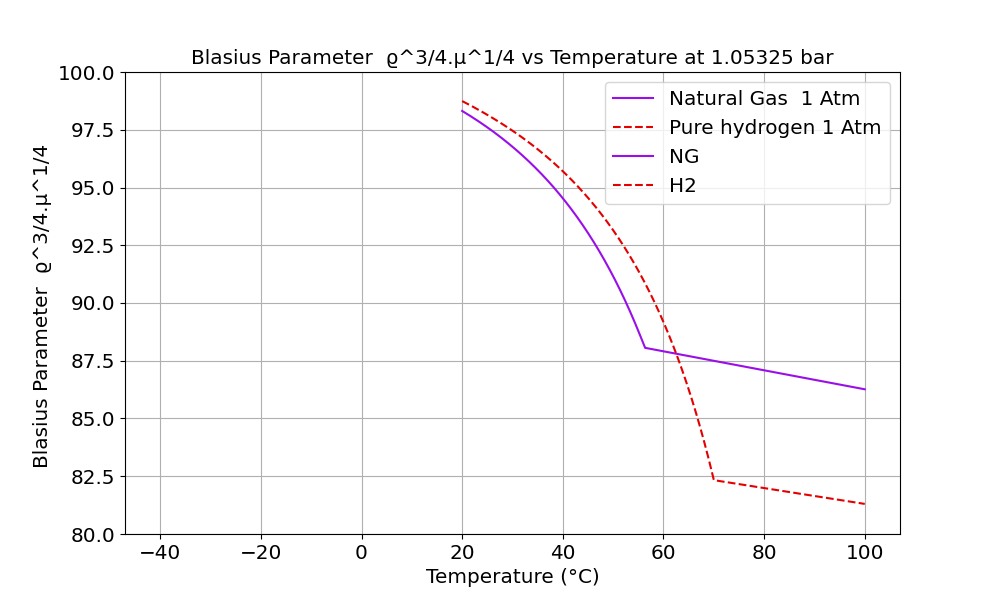
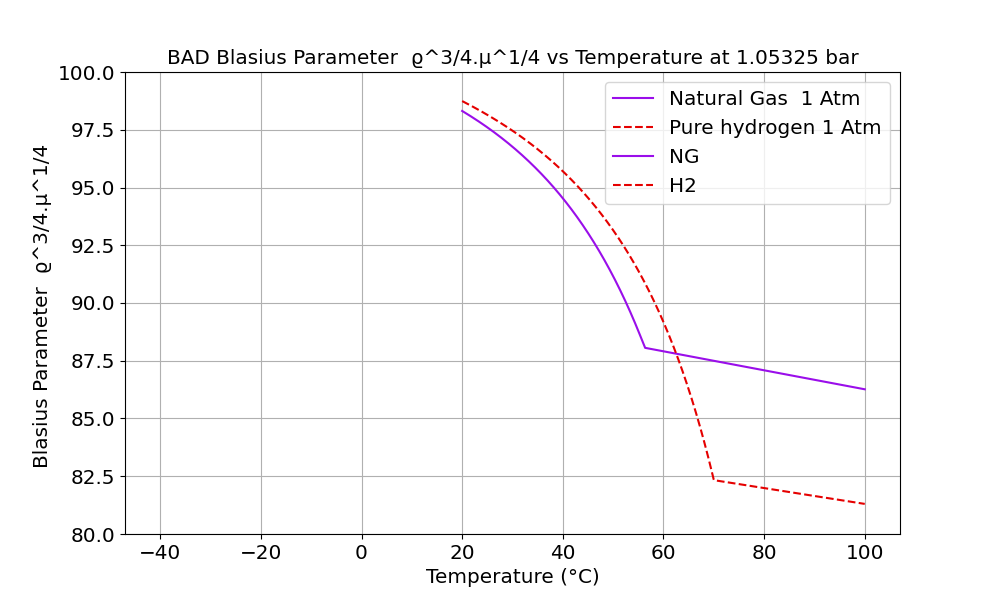
tidy obsolete old data images

Changed region(s): [[0.155, 0.06, 0.868, 0.12]]

diff --git a/peng.py b/peng.py
@@ -1708,6 +1708,7 @@ def main():
             plt.savefig(f"condse_η0-bw.png")
         else:
             plt.savefig(f"condse_η0.png")
+    plt.close()
 
    # Plot the condensing curve for many gases - - - - - - - - - - -
     p = Atm
@@ -1888,11 +1889,12 @@ def main():
     # Viscosity plot  EXPTL values at 298K - - - - - - - - - - -
 
     P = pressure
+    plt.figure(figsize=(10, 6))
 
     μ_g = {}
     for mix in plot_gases:
         μ_g[mix] = []
-        for T in temperatures:
+         for T in temperatures:
             μ = get_viscosity(mix,P,T, visc_f)
             # μ = hernzip_mix_rule(mix, values) # Makes no visible difference wrt to linear!
             # μ = explog_mix_rule(mix, values) # very slight change by eye
@@ -1925,7 +1927,7 @@ def main():
         plt.plot(temperatures - T273, bf_g[mix], label= mix, **plot_kwargs(mix))
 
 
-    plt.title(f'Blasius Parameter  ϱ^3/4.μ^1/4 vs Temperature at {pressure} bar')
+    plt.title(f'BAD Blasius Parameter  ϱ^3/4.μ^1/4 vs Temperature at {pressure} bar')
     plt.xlabel('Temperature (°C)')
     plt.ylabel('Blasius Parameter  ϱ^3/4.μ^1/4 ')
     plt.legend()
@@ -1969,7 +1971,7 @@ def main():
     plt.grid(True)
     plt.legend()
     #plt.savefig(f"peng_bf_NG_{t}.png")
-    plt.savefig(f"peng_bf_NG_.png")
+    plt.savefig(f"peng_bf_NG_H2.png")
     plt.close()
 
     # Pressure-drop plot NORMALIZED wrt NG  - - - - - - - - - - -
